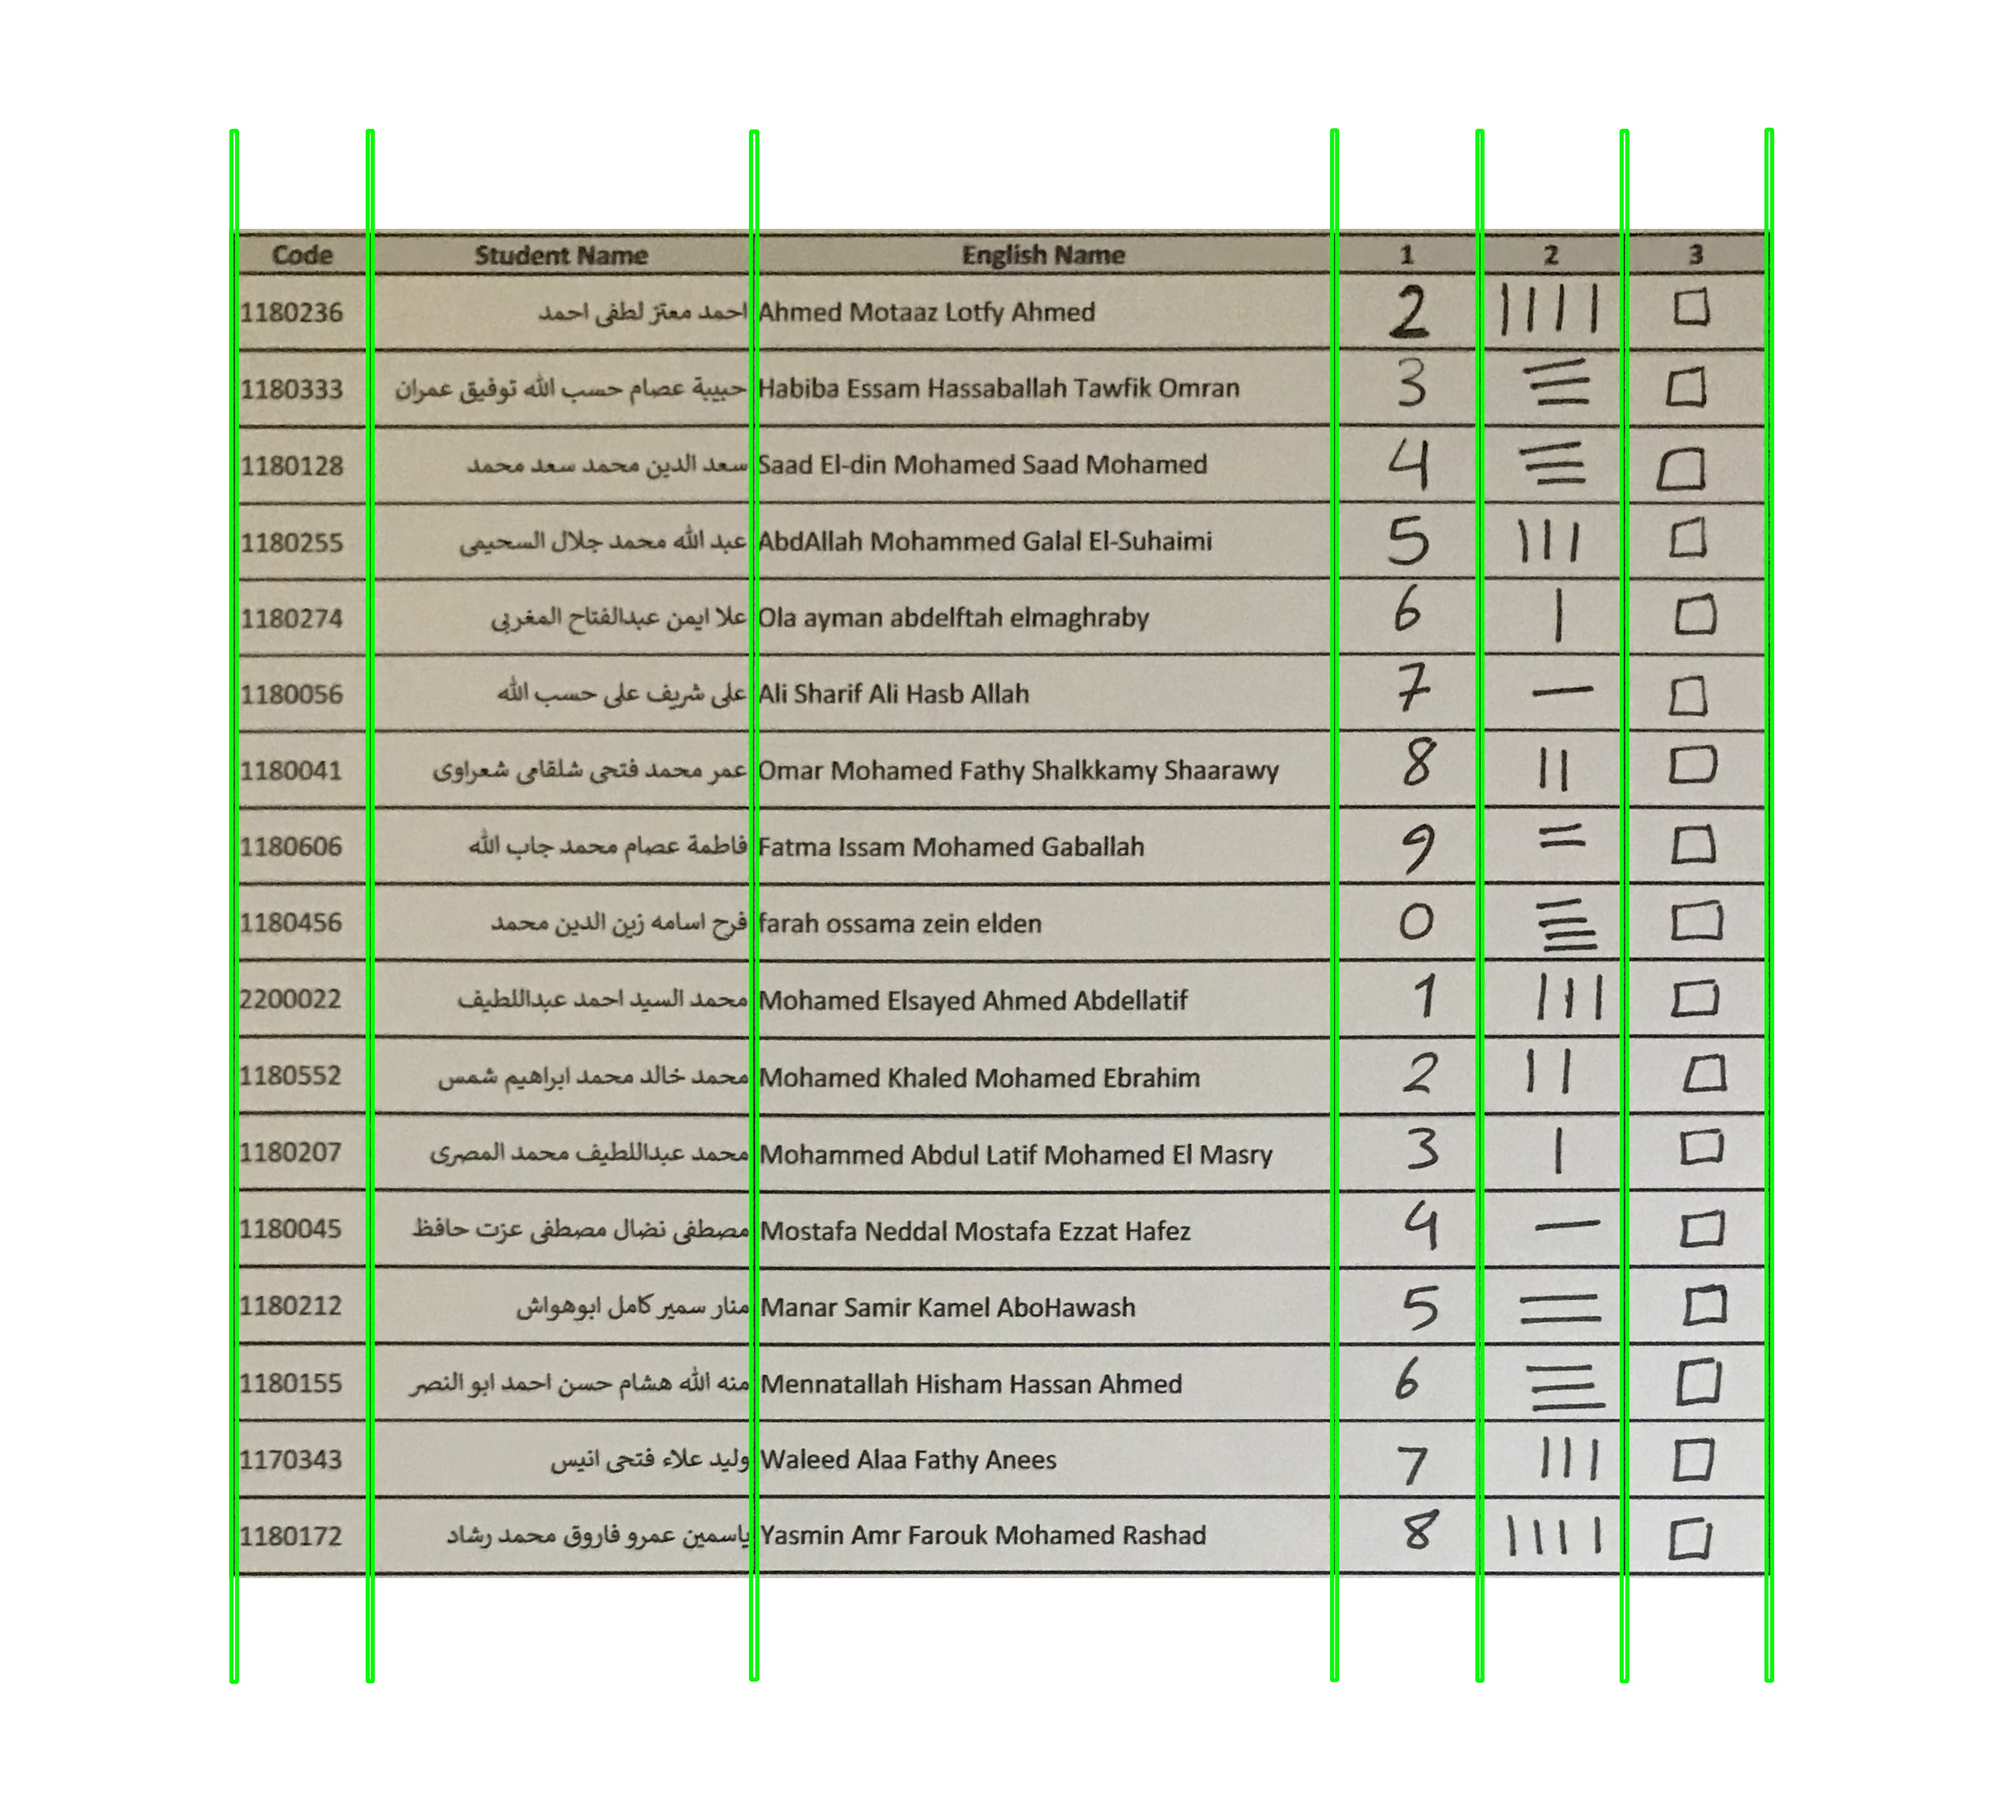
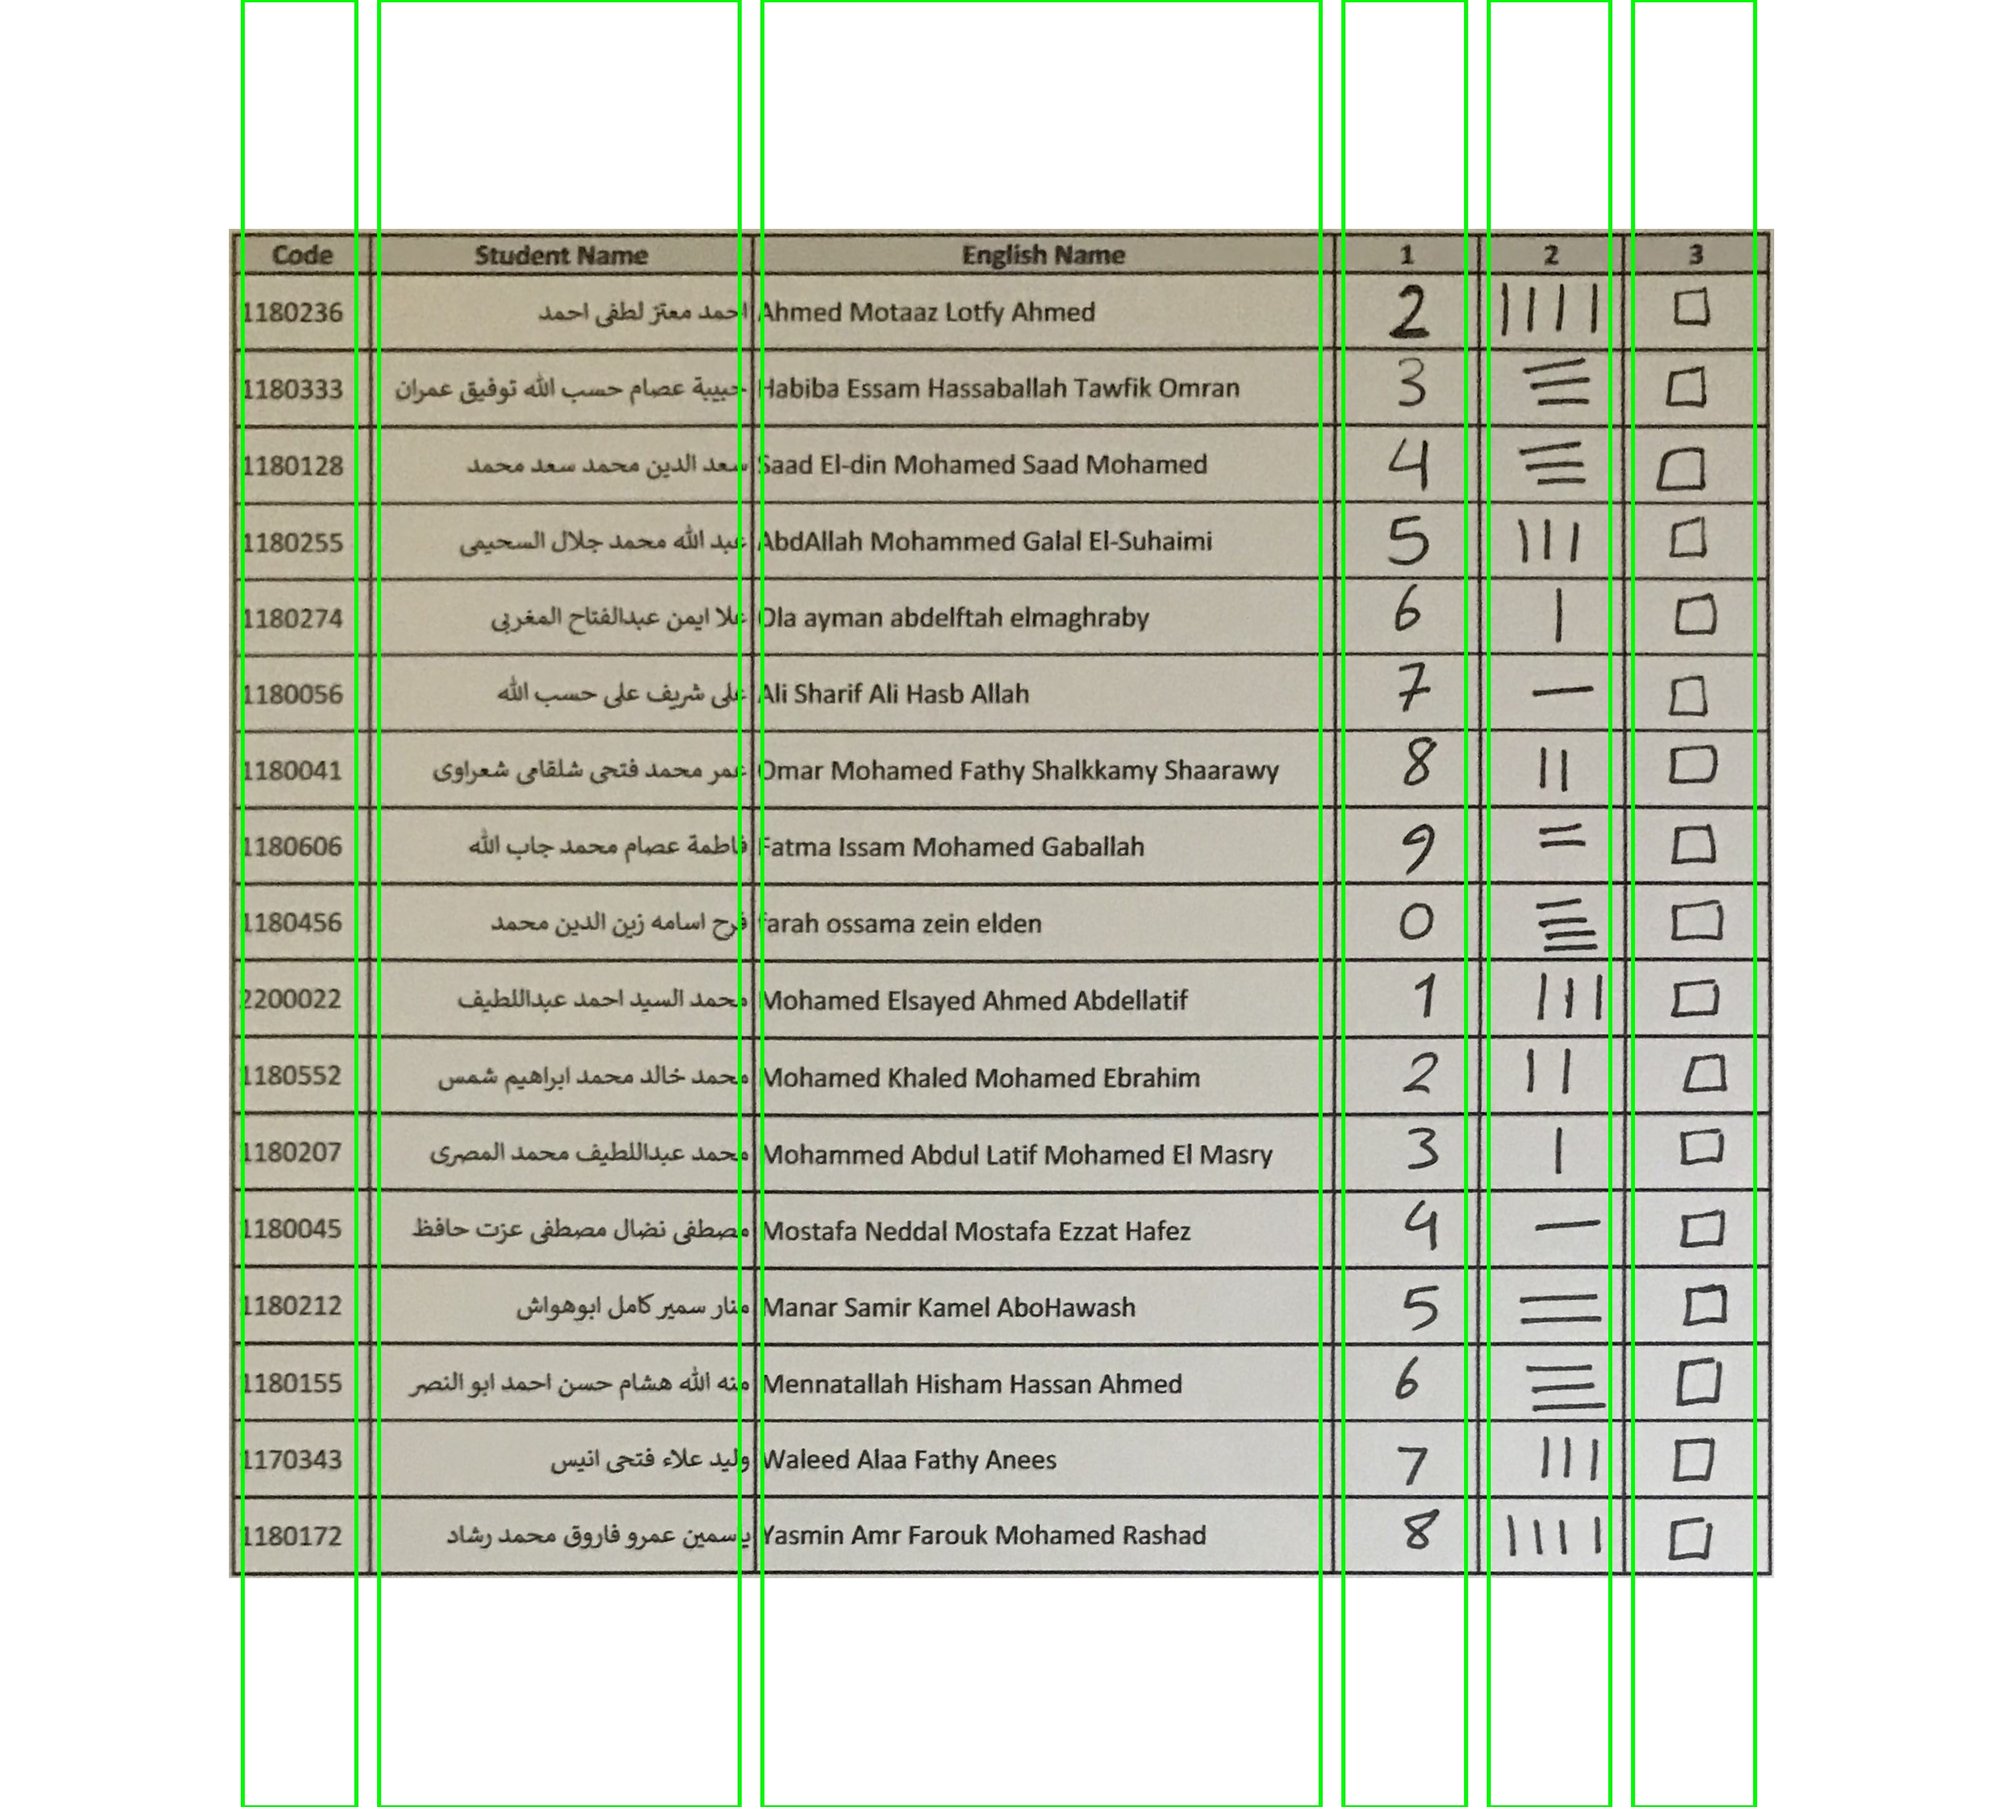
extracted all columns from images

diff --git a/OcrToTableTool.py b/OcrToTableTool.py
@@ -4,9 +4,11 @@ import subprocess
 
 class OcrToTableTool:
 
-    def __init__(self, image, original_image):
+    def __init__(self, image, original_image, number):
         self.thresholded_image = image
         self.original_image = original_image
+        self.number = number 
+        
 
     def execute(self):
         self.dilate_image()
@@ -15,7 +17,7 @@ class OcrToTableTool:
         self.store_process_image('1_contours.jpg', self.image_with_contours_drawn)
         self.convert_contours_to_bounding_boxes()
         self.store_process_image('2_bounding_boxes.jpg', self.image_with_all_bounding_boxes)
-        self.mean_height = self.get_mean_height_of_bounding_boxes()
+        #self.mean_height = self.get_mean_height_of_bounding_boxes()
         # self.sort_bounding_boxes_by_y_coordinate()
         # self.club_all_bounding_boxes_by_similar_y_coordinates_into_rows()
         # self.sort_all_rows_by_x_coordinate()
@@ -64,112 +66,127 @@ class OcrToTableTool:
     def convert_contours_to_bounding_boxes(self):
         self.bounding_boxes = []
         self.image_with_all_bounding_boxes = self.original_image.copy()
-        for contour in self.contours:
+        sorted_contours = sorted(self.contours, key=lambda c: cv2.boundingRect(c)[0]) 
+
+        self.image = self.original_image
+ 
+        print(len(sorted_contours))
+        for i, contour in enumerate( sorted_contours[0:-1]):
+            
             x, y, w, h = cv2.boundingRect(contour)
-            self.bounding_boxes.append((x, y, w, h))
-            self.image_with_all_bounding_boxes = cv2.rectangle(self.image_with_all_bounding_boxes, (x, y), (x + w, y + h), (0, 255, 0), 5)
+            x2, y2, w2, _ = cv2.boundingRect(sorted_contours[i+1])
 
-    def get_mean_height_of_bounding_boxes(self):
-        heights = []
-        for bounding_box in self.bounding_boxes:
-            x, y, w, h = bounding_box
-            heights.append(h)
-        return np.mean(heights)
-    
+            if x2 - x < 15:
+                continue 
 
-    def sort_bounding_boxes_by_y_coordinate(self):
-        self.bounding_boxes = sorted(self.bounding_boxes, key=lambda x: x[1])
-
-    def club_all_bounding_boxes_by_similar_y_coordinates_into_rows(self):
-        self.rows = []
-        half_of_mean_height = self.mean_height / 2
-        current_row = [ self.bounding_boxes[0] ]
-        for bounding_box in self.bounding_boxes[1:]:
-            current_bounding_box_y = bounding_box[1]
-            previous_bounding_box_y = current_row[-1][1]
-            distance_between_bounding_boxes = abs(current_bounding_box_y - previous_bounding_box_y)
-            if distance_between_bounding_boxes <= half_of_mean_height:
-                current_row.append(bounding_box)
-            else:
-                self.rows.append(current_row)
-                current_row = [ bounding_box ]
-        self.rows.append(current_row)
-
-    def sort_all_rows_by_x_coordinate(self):
-        self.first_col =[]
-        self.third_col = []
-        for row in self.rows:
-            row.sort(key=lambda x: x[0])
-            self.first_col.append(list(row[0]))
-            self.third_col.append(list(row[2])) if len(row) > 2 else None
-    
-    def extract_first_column(self):
-        
-        data = np.array(self.first_col)
-        # Calculate the first and third quartiles (Q1 and Q3)
-        hist, edges = np.histogram(data[:,0], bins=20)
-        max_freq_starting_index = np.argmax(hist)
-        
-        x0 = data[:,0]
-        condition1 = x0 >= edges[max_freq_starting_index]*.5
-        condition2 = x0 <= edges[max_freq_starting_index]*1.5
-
-
-        hist, edges = np.histogram(data[:,2], bins=20)
-        max_freq_index = np.argmax(hist)
-        
-        condition3 = data[:,2] >= edges[max_freq_index]*.5
-        condition4 = data[:,2] <= edges[max_freq_index]*1.5
-        
-        hist, edges = np.histogram(data[:,3], bins=20)
-        max_freq_index = np.argmax(hist)
-        condition5 = data[:,3] >= edges[max_freq_index]*.5
-        condition6 = data[:,3] <= edges[max_freq_index]*1.5
-
-        filter = condition1 & condition2 & condition3 & condition4 & condition5 & condition6
-        removed_data = data[~filter]
-        filtered_data= data[filter]
-
-        if len(filtered_data) != 17:
-            print("x0: ", x0)
-            print("data", data , "\n", len(data))
-            print("filtered", filtered_data, "\n", len(filtered_data))
-           # print("removed", removed_data, "\n" , len(removed_data))
-
-        for i,box in enumerate(filtered_data):
-            x, y, w, h = box
-            y = y - 5
-            cropped_image = self.original_image[y:y+h, x:x+w]
-            image_slice_path = "./temp_test/img_" + str(i) + ".jpg"
+            self.image_with_all_bounding_boxes = cv2.rectangle(self.image_with_all_bounding_boxes, (x + 20, 0), (x2 -20  , self.original_image.shape[0]), (0, 250, 0),5)
+            
+            cropped_image = self.original_image[: , x :x2 + w2//2  ]
+            image_slice_path = f"./image_columns/{self.number}_col_" + str(i) + ".jpg"
             cv2.imwrite(image_slice_path, cropped_image)
+
+
+    # def get_mean_height_of_bounding_boxes(self):
+    #     heights = []
+    #     for bounding_box in self.bounding_boxes:
+    #         x, y, w, h = bounding_box
+    #         heights.append(h)
+    #     return np.mean(heights)
+    
+
+    # def sort_bounding_boxes_by_y_coordinate(self):
+    #     self.bounding_boxes = sorted(self.bounding_boxes, key=lambda x: x[1])
+
+    # def club_all_bounding_boxes_by_similar_y_coordinates_into_rows(self):
+    #     self.rows = []
+    #     half_of_mean_height = self.mean_height / 2
+    #     current_row = [ self.bounding_boxes[0] ]
+    #     for bounding_box in self.bounding_boxes[1:]:
+    #         current_bounding_box_y = bounding_box[1]
+    #         previous_bounding_box_y = current_row[-1][1]
+    #         distance_between_bounding_boxes = abs(current_bounding_box_y - previous_bounding_box_y)
+    #         if distance_between_bounding_boxes <= half_of_mean_height:
+    #             current_row.append(bounding_box)
+    #         else:
+    #             self.rows.append(current_row)
+    #             current_row = [ bounding_box ]
+    #     self.rows.append(current_row)
+
+    # def sort_all_rows_by_x_coordinate(self):
+    #     self.first_col =[]
+    #     self.third_col = []
+    #     for row in self.rows:
+    #         row.sort(key=lambda x: x[0])
+    #         self.first_col.append(list(row[0]))
+    #         self.third_col.append(list(row[2])) if len(row) > 2 else None
+    
+    # def extract_first_column(self):
+        
+    #     data = np.array(self.first_col)
+    #     # Calculate the first and third quartiles (Q1 and Q3)
+    #     hist, edges = np.histogram(data[:,0], bins=20)
+    #     max_freq_starting_index = np.argmax(hist)
+        
+    #     x0 = data[:,0]
+    #     condition1 = x0 >= edges[max_freq_starting_index]*.5
+    #     condition2 = x0 <= edges[max_freq_starting_index]*1.5
+
+
+    #     hist, edges = np.histogram(data[:,2], bins=20)
+    #     max_freq_index = np.argmax(hist)
+        
+    #     condition3 = data[:,2] >= edges[max_freq_index]*.5
+    #     condition4 = data[:,2] <= edges[max_freq_index]*1.5
+        
+    #     hist, edges = np.histogram(data[:,3], bins=20)
+    #     max_freq_index = np.argmax(hist)
+    #     condition5 = data[:,3] >= edges[max_freq_index]*.5
+    #     condition6 = data[:,3] <= edges[max_freq_index]*1.5
+
+    #     filter = condition1 & condition2 & condition3 & condition4 & condition5 & condition6
+    #     removed_data = data[~filter]
+    #     filtered_data= data[filter]
+
+    #     if len(filtered_data) != 17:
+    #         print("x0: ", x0)
+    #         print("data", data , "\n", len(data))
+    #         print("filtered", filtered_data, "\n", len(filtered_data))
+    #        # print("removed", removed_data, "\n" , len(removed_data))
+
+    #     for i,box in enumerate(filtered_data):
+    #         x, y, w, h = box
+    #         y = y - 5
+    #         cropped_image = self.original_image[y:y+h, x:x+w]
+    #         image_slice_path = "./temp_test/img_" + str(i) + ".jpg"
+    #         cv2.imwrite(image_slice_path, cropped_image)
         
 
-    def crop_each_bounding_box_and_ocr(self):
-        self.table = []
-        current_row = []
-        image_number = 0
-        for row in self.rows:
-            for bounding_box in row:
-                x, y, w, h = bounding_box
-                y = y - 5
-                cropped_image = self.original_image[y:y+h, x:x+w]
-                image_slice_path = "./ocr_slices/img_" + str(image_number) + ".jpg"
-                cv2.imwrite(image_slice_path, cropped_image)
-                results_from_ocr = self.get_result_from_tersseract(image_slice_path)
-                current_row.append(results_from_ocr)
-                image_number += 1
-            self.table.append(current_row)
-            current_row = []
+    # def crop_each_bounding_box_and_ocr(self):
+    #     self.table = []
+    #     current_row = []
+    #     image_number = 0
+    #     for row in self.rows:
+    #         for bounding_box in row:
+    #             x, y, w, h = bounding_box
+    #             y = y - 5
+    #             cropped_image = self.original_image[y:y+h, x:x+w]
+    #             image_slice_path = "./ocr_slices/img_" + str(image_number) + ".jpg"
+    #             cv2.imwrite(image_slice_path, cropped_image)
+    #             results_from_ocr = self.get_result_from_tersseract(image_slice_path)
+    #             current_row.append(results_from_ocr)
+    #             image_number += 1
+    #         self.table.append(current_row)
+    #         current_row = []
 
-    def get_result_from_tersseract(self, image_path):
-        output = subprocess.getoutput('tesseract ' + image_path + ' - -l eng --oem 3 --psm 7 --dpi 72 -c tessedit_char_whitelist="ABCDEFGHIJKLMNOPQRSTUVWXYZ0123456789().calmg* "')
-        output = output.strip()
-        return output
+    # def get_result_from_tersseract(self, image_path):
+    #     output = subprocess.getoutput('tesseract ' + image_path + ' - -l eng --oem 3 --psm 7 --dpi 72 -c tessedit_char_whitelist="ABCDEFGHIJKLMNOPQRSTUVWXYZ0123456789().calmg* "')
+    #     output = output.strip()
+    #     return output
 
-    def generate_csv_file(self):
-        with open("output.csv", "w") as f:
-            for row in self.table:
-                f.write(",".join(row) + "\n")
+    # def generate_csv_file(self):
+    #     with open("output.csv", "w") as f:
+    #         for row in self.table:
+    #             f.write(",".join(row) + "\n")
 
     def store_process_image(self, file_name, image):
         path = "./process_images/ocr_table_tool/" + file_name

diff --git a/main.py b/main.py
@@ -18,11 +18,8 @@ for i in range (1,25):
     lines_remover = tlr.TableLinesRemover(perspective_corrected_image)
     image_without_lines = lines_remover.execute()
     #cv2.imshow("image_without_lines", image_without_lines)
-    ########## test #############3
-    ######### test #############
 
-
-    ocr_tool = ottt.OcrToTableTool(image_without_lines, perspective_corrected_image)
+    ocr_tool = ottt.OcrToTableTool(image_without_lines, perspective_corrected_image, i)
     image_with_contours = ocr_tool.execute()
     cv2.imwrite(f"./column_images/{i}.jpg", image_with_contours)
 
